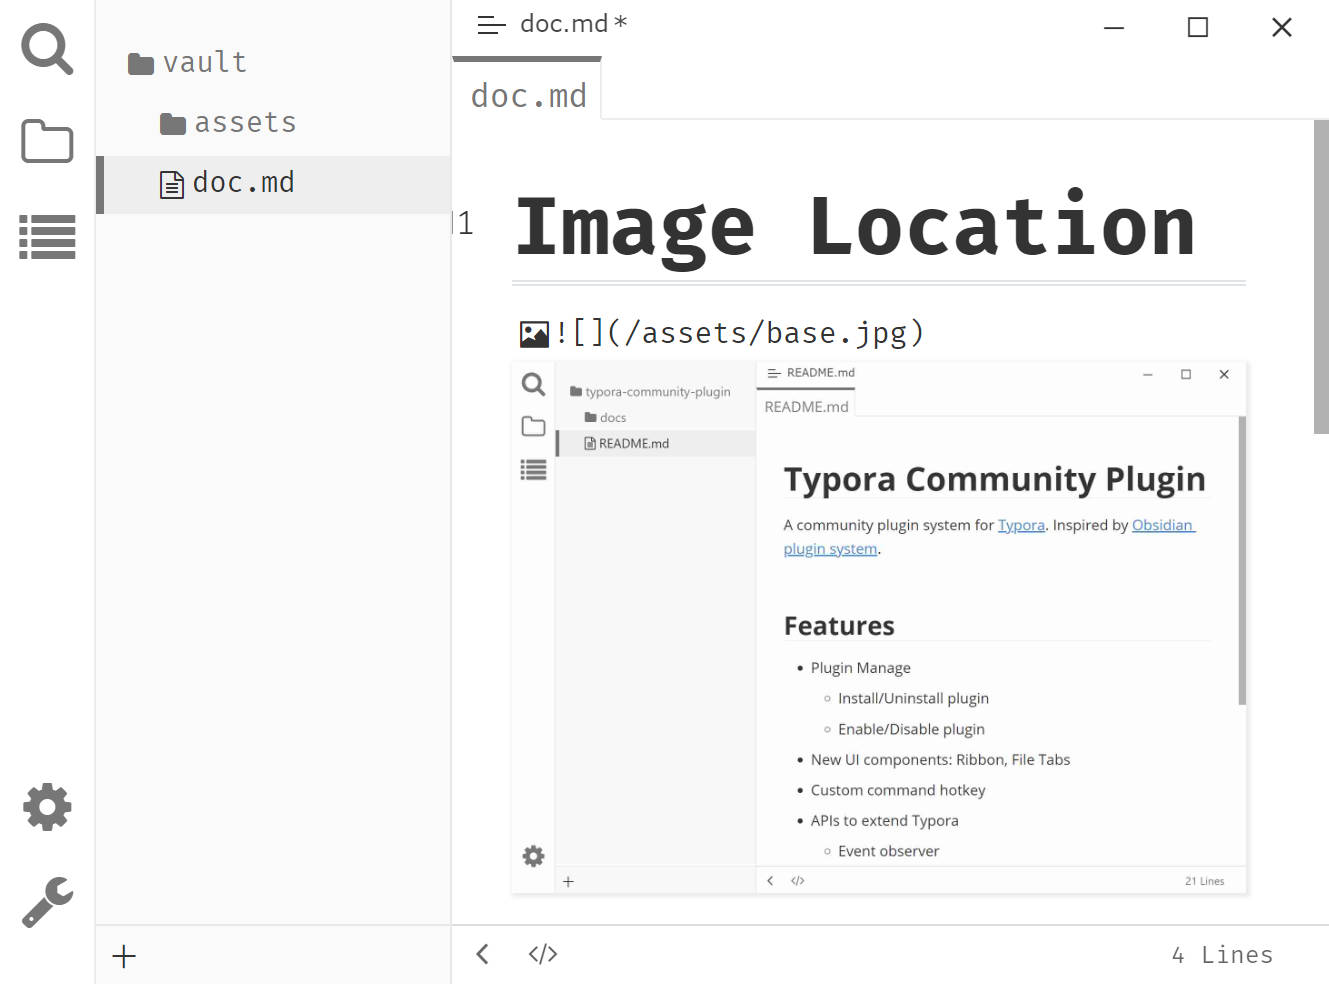
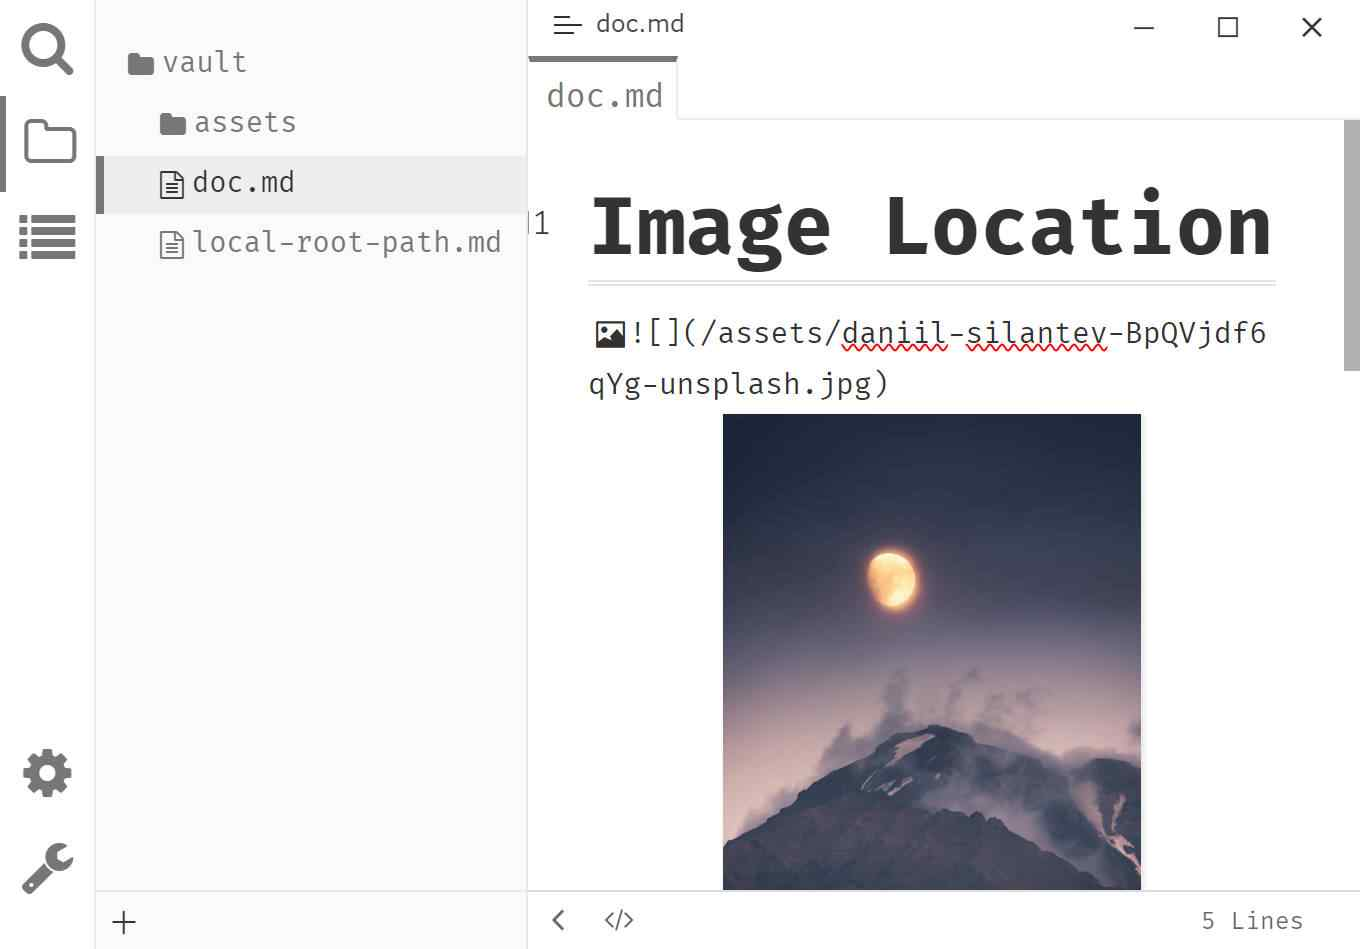
feat: Image Upload Command supports instruction `${vault}`

diff --git a/src/main.ts b/src/main.ts
@@ -1,5 +1,5 @@
 import { path, Plugin, decorate } from '@typora-community-plugin/core'
-import { editor } from 'typora'
+import { editor, File } from 'typora'
 
 
 export default class extends Plugin {
@@ -22,6 +22,15 @@ export default class extends Plugin {
           url = path.join(this.app.vault.path, url)
         }
         return url
+      }))
+
+    // Pass vault root to custom uploader
+    this.register(
+      decorate.returnValue(editor.imgEdit, 'getImageUploaderCommand', (args, uploader) => {
+        if (File.option.imageUploader === 'custom') {
+          uploader = uploader.replace(/\$\{vault\}/g, this.app.vault.path)
+        }
+        return uploader
       }))
   }
 }

diff --git a/README.md b/README.md
@@ -4,6 +4,8 @@ English | [简体中文](./README.zh-CN.md)
 
 This a plugin based on [typora-community-plugin][core] for [Typora](https://typora.io).
 
+## Features
+
 - Resolve image's path relative to the vault's root.
 
   > **Example**
@@ -16,11 +18,15 @@ This a plugin based on [typora-community-plugin][core] for [Typora](https://typo
   >
   > `typora-root-url: /assets` → `typora-root-url: {vault-path}/assets`
   >
-  > The we can use the image like this: `![](image.png)`, it will be resolved to `![]({vault-path}/assets/image.png)`.
+  > Then we can use the image like this: `![](image.png)`, it will be resolved to `![]({vault-path}/assets/image.png)`.
+
+- App Settings → Image → Image Upload Setting → Command, supports new instruction `${vault}` (it will be replaced to the vault's root path)
 
 ## Preview
 
-![](./docs/assets/base.jpg)
+| image from vault's root | `typora-root-url` from vault's root |
+|:-----------------------:|:-----------------------------------:|
+| ![](./docs/assets/base.jpg) | ![](./docs/assets/local-root-path.jpg) |
 
 ## Install
 

diff --git a/README.zh-CN.md b/README.zh-CN.md
@@ -4,6 +4,8 @@
 
 这是一个基于 [typora-community-plugin][core] 开发的，适用于 [Typora](https://typora.io) 的插件。
 
+## 特性
+
 - 相对于当前笔记目录的根目录解析图片路径，类似 Obsidian。
 
   > **例子**
@@ -18,9 +20,13 @@
   >
   > 然后我们就可以这样引用图片: `![](image.png)`，它会被解析为 `![]({笔记目录路径}/assets/image.png)`。
 
+- 应用设置 → 图片 → 图片上传设置 → 命令，支持指令 `${vault}`（它会被解析为当前笔记目录的根路径）
+
 ## 预览
 
-![](./docs/assets/base.jpg)
+| 相对于当前笔记根目录的图片   | 相对于当前笔记根目录的 `typora-root-url` |
+|:-----------------------:|:-----------------------------------:|
+| ![](./docs/assets/base.jpg) | ![](./docs/assets/local-root-path.jpg) |
 
 ## 安装
 

diff --git a/test/vault/local-root-path.md b/test/vault/local-root-path.md
@@ -4,4 +4,5 @@ typora-root-url: /assets
 
 # Image Location 2
 
-![](base.jpg)
+![](daniil-silantev-BpQVjdf6qYg-unsplash.jpg)
+

diff --git a/test/vault/doc.md b/test/vault/doc.md
@@ -1,4 +1,4 @@
 # Image Location
 
-![](/assets/base.jpg)
+![](/assets/daniil-silantev-BpQVjdf6qYg-unsplash.jpg)
 
